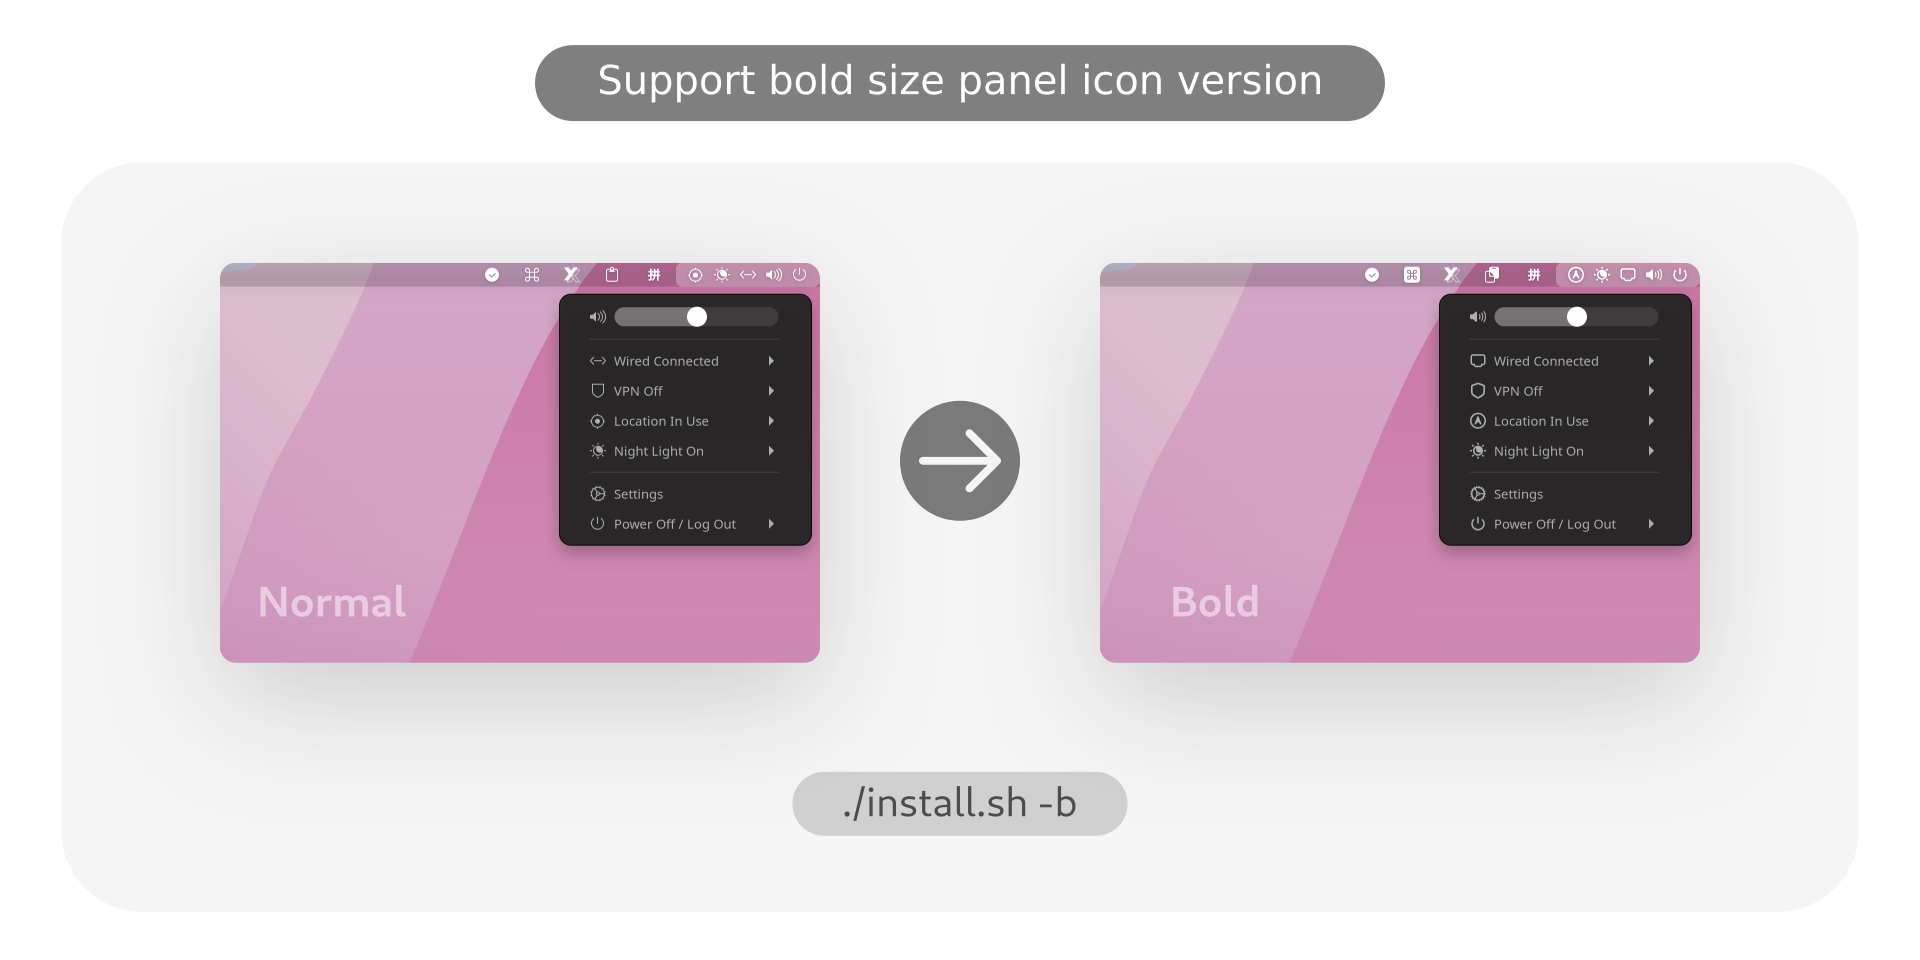
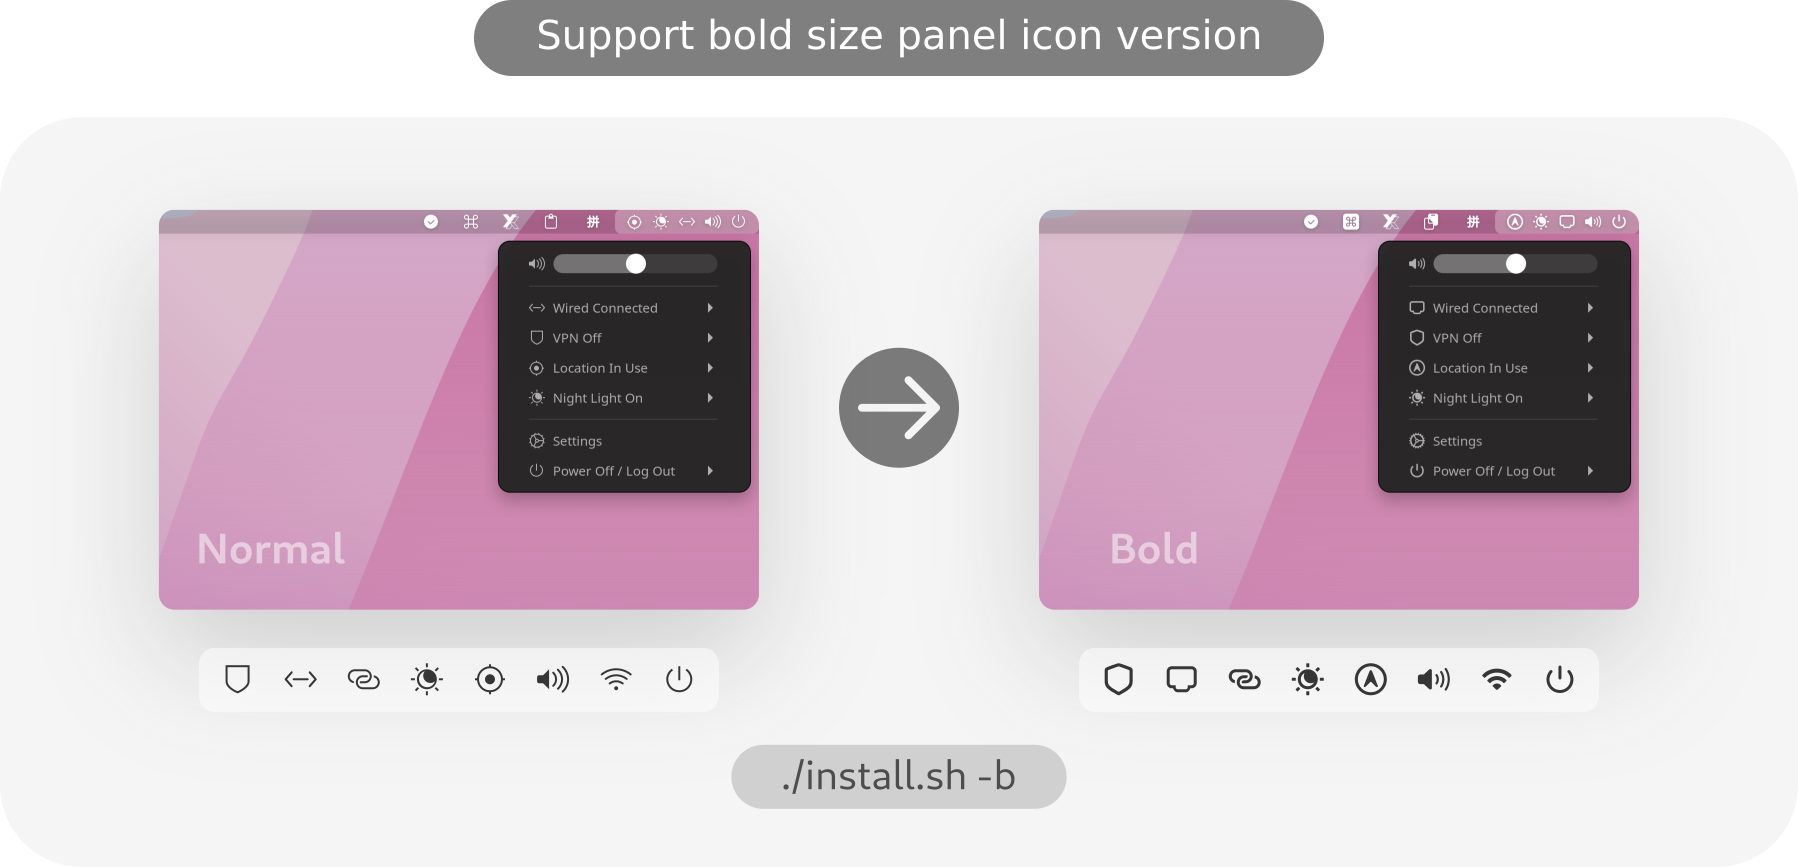
update

diff --git a/README.md b/README.md
@@ -17,11 +17,13 @@ Usage:  `./install.sh`  **[OPTIONS...]**
 |-b, --bold           | Install bold panel icons version|
 |-h, --help           | Show this help|
 
+> **Note for snaps:** To use these icons with snaps, the best way is to make a copy of the application's .desktop located in `/var/lib/snapd/desktop/applications/name-of-the-snap-application.desktop` into `$HOME/.local/share/applications/`. Then use any text editor and change the "Icon=" to "Icon=name-of-the-icon.svg"
+
 > For more information, run: `./install.sh --help`
 
 ![1](bold-size.png?raw=true)
 
-> **Note for snaps:** To use these icons with snaps, the best way is to make a copy of the application's .desktop located in `/var/lib/snapd/desktop/applications/name-of-the-snap-application.desktop` into `$HOME/.local/share/applications/`. Then use any text editor and change the "Icon=" to "Icon=name-of-the-icon.svg"
+> Bold version suggested use in `High resolution display` like 4k display with 200% scale!
 
 ## Requirment
 You can use this with:
